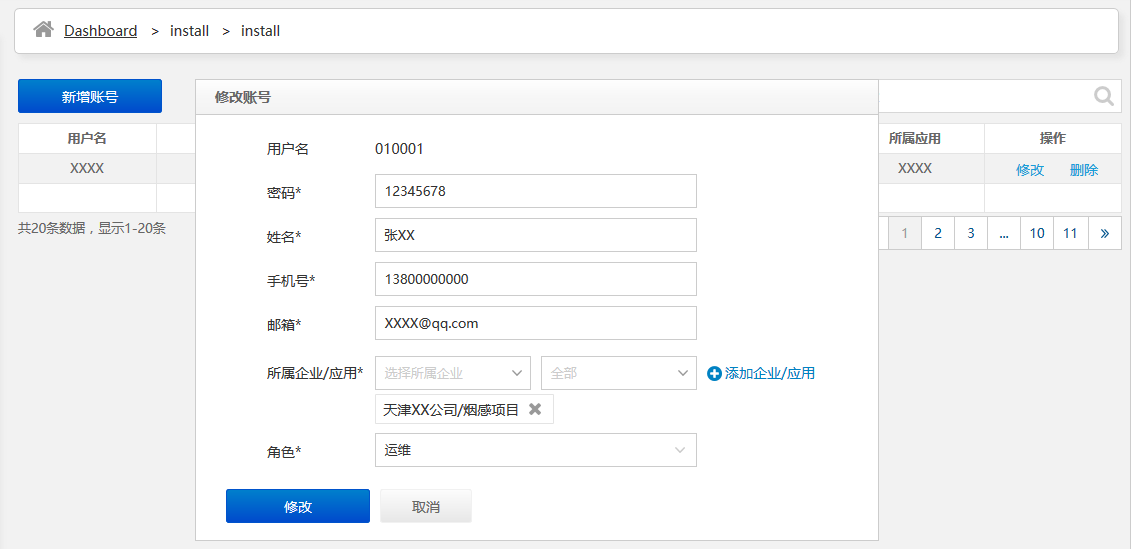
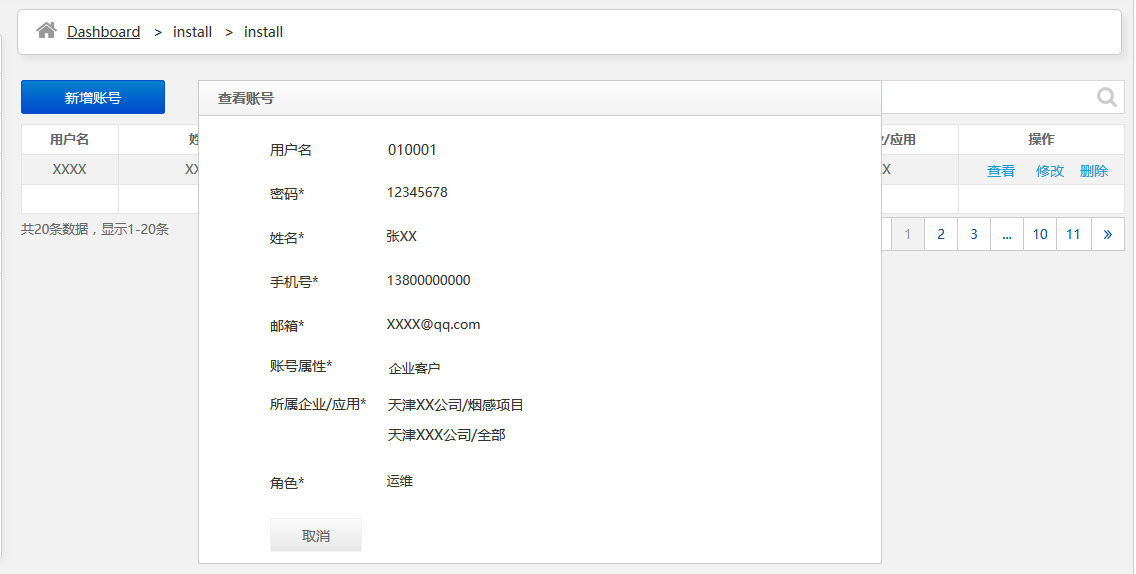
test

diff --git a/index.md b/index.md
@@ -36,7 +36,7 @@
 |元素名称|类型|跳转关系|校验规则|报错提示|元素样式和说明|
 |-------|----|-------|-------|--------|-------------|
 |创建企业|按钮|弹出层显示如上图|||点击按钮弹出层显示“创建企业”弹出层|
-|企业名称|单行输入框||1.必填项，50字符；2.中英文数字和()、-。||1.填写企业客户的企业名称；2.失去焦点时为空，提示“不能为空”；3.失去焦点时存在非法字符，提示“只能填写中英文、数字和()、-”；4.超过50字符不可输入。|
+|企业名称|单行输入框||1.必填项，50字符；2.中英文数字和()、-。||1.填写企业客户的企业名称；2.失去焦点时和提交时为空，提示“不能为空”；3.失去焦点时和提交时存在非法字符，提示“只能填写中英文、数字和()、-”；4.超过50字符不可输入。|
 |企业地址|单行输入框||1.必填项，100字符；2.中英文数字和符号||1.填写企业客户的企业地址；2.为空时，提示“不能为空”；3.超过100字符不可输入。|
 |提交并创建应用|按钮|关闭“创建企业”页面并切换至“应用”标签同时打开“创建应用”弹出层||详见企业名称和企业地址|1.任一字段报错均无法提交；2.提交企业信息并创建该企业的应用信息。|
 |提交|按钮|关闭“创建企业”弹出层，返回企业列表||详见企业名称和企业地址|1.任一字段报错均无法提交；2.提交企业信息，并在企业列表中增加新的企业名称条目。|
@@ -82,12 +82,12 @@
 |元素名称|类型|跳转关系|校验规则|报错提示|元素样式和说明|
 |-------|----|-------|-------|--------|-------------|
 |创建应用|按钮|弹出层显示如上图|||点击“创建应用”按钮，显示“创建应用”弹出层|
-|所属企业|检索下拉框||必选项|失去焦点时为空，提示“请选择所属企业”|1.选择应用所属的企业，默认显示“请选择所属企业”，下拉框可模糊检索企业名称；2.如从企业管理列表中点击“应用”从而进入创建应用页面、或为创建企业后点击“提交并创建应用”进入创建应用页面的情况，“所属企业”字段默认显示为企业管理列表对应的企业名称和前一步操作创建的企业名称。|
-|应用名称|单行输入框||1.必填项；2.中英文数字，50字符|失去焦点时为空，提示“请填写应用名称”；失去焦点时有非法字符，提示“请输入中英文以及数字”|填写应用名称|
-|选择地区|检索下拉框||1.必选项；|失去焦点时为空，提示“请选择地区”|1.选项为全国所有省市，按照拼音的顺序排列，第一个选项均为“全部”；2.两个下拉框分别选择对应的省市及其下级市区；3.“省市”选择全部，同时“市区”自动选择“全部”。|
-|应用类型|下拉框||必选项|失去焦点时为空，提示“请选择应用类型”|选项为系统配置完成的，包含烟气传感、消防器材等，具体选项详见表格下方。|
+|所属企业|检索下拉框||必选项|失去焦点时和提交时为空，提示“请选择所属企业”|1.选择应用所属的企业，默认显示“请选择所属企业”，下拉框可模糊检索企业名称；2.如从企业管理列表中点击“应用”从而进入创建应用页面、或为创建企业后点击“提交并创建应用”进入创建应用页面的情况，“所属企业”字段默认显示为企业管理列表对应的企业名称和前一步操作创建的企业名称。|
+|应用名称|单行输入框||1.必填项；2.中英文数字，50字符|失去焦点时和提交时为空，提示“请填写应用名称”；失去焦点时和提交时有非法字符，提示“请输入中英文以及数字”|填写应用名称|
+|选择地区|检索下拉框||1.必选项；|失去焦点时和提交时为空，提示“请选择地区”|1.选项为全国所有省市，按照拼音的顺序排列，第一个选项均为“全部”；2.两个下拉框分别选择对应的省市及其下级市区；3.“省市”选择全部，同时“市区”自动选择“全部”。|
+|应用类型|下拉框||必选项|失去焦点时和提交时为空，提示“请选择应用类型”|选项为系统配置完成的，包含烟气传感、消防器材等，具体选项详见表格下方。|
 |AppEUI|文字显示||||1.可唯一识别终端设备的应用服务供应商（即所有者）；2.CLAA规定AppEUI是64bits唯一识别码（平台显示16位16进制数）网络将根据此标识寻找终端对应的 APP 厂家的服务器，由 1位应用范围,5 位应用地区，以及2位应用类型，8位序列号组成。|
-|设备最大连接数量|单行输入框||必填项，仅数字，5字符|失去焦点时为空，提示“请填写设备最大连接数量”|该应用最多可申请终端设备的数量。|
+|设备最大连接数量|单行输入框||必填项，仅数字，5字符|失去焦点时和提交时为空，提示“请填写设备最大连接数量”|该应用最多可申请终端设备的数量。|
 |提交|按钮|提交成功关闭创建应用弹出层|||1.任一字段报错均无法提交；2.提交成功，对应企业新增一个应用信息。|
 |取消|按钮|关闭创建应用弹出层|||不执行创建应用操作。|
 * 应用类型选项：
@@ -184,7 +184,7 @@
 |-------|----|-------|-------|--------|-------------|
 |添加一级菜单|按钮|显示“添加一级菜单”弹出层|||点击按钮添加一级菜单信息|
 |序号|||||1.序号自动生成，初始状态添加第一个一级菜单，序号为1；顺序添加第二个一级菜单，序号为2；2.序号小的菜单排列显示靠前。|
-|菜单名称|单行输入框||1.必填项；2.中英文，20字符|1.失去焦点时为空，提示“请填写菜单名称”；2.失去焦点时有非法字符，提示“仅能输入中文、英文”|填写菜单名称|
+|菜单名称|单行输入框||1.必填项；2.中英文，20字符|1.失去焦点时和提交时为空，提示“请填写菜单名称”；2.失去焦点时和提交时有非法字符，提示“仅能输入中文、英文”|填写菜单名称|
 |菜单URL|单行输入框||1.非必填项；2.链接格式：英文、数字、符号，500字符||填写菜单URL表示点击该一级菜单可进入对应的功能页面，如无菜单URL，点击菜单名称无操作。|
 |提交|按钮|成功则关闭添加一级菜单弹出层|||1.任一字段报错均无法提交；2.提交成功，表示添加菜单成功|
 |取消|按钮|关闭添加一级菜单弹出层|||取消操作，不执行添加操作|
@@ -200,7 +200,7 @@
 |一级菜单所在行的“+”|按钮|显示“添加子菜单”弹出层|||点击按钮，用于添加该一级菜单所属二级菜单。|
 |序号|||||自动显示序号，二级菜单序号中第一位继承上级一级菜单的序号，第二位顺序排列1、2、3……11……|
 |所属一级目录|||||显示创建的该二级菜单的上级一级菜单名称。|
-|子菜单名称|单行输入框||必填项，中英文，20字符|1.失去焦点时为空，提示“请填写菜单名称”；2.失去焦点时有非法字符，提示“仅能输入中文、英文”|填写菜单名称|
+|子菜单名称|单行输入框||必填项，中英文，20字符|1.失去焦点时和提交时为空，提示“请填写菜单名称”；2.失去焦点时和提交时有非法字符，提示“仅能输入中文、英文”|填写菜单名称|
 |菜单URL|单行输入框||1.非必填项；2.链接格式：英文、数字、符号，500字符||填写菜单URL表示点击该二级菜单可进入对应的功能页面，如无菜单URL，点击菜单名称无操作。|
 |提交|按钮|成功则关闭添加子菜单弹出层|||1.任一字段报错均无法提交；2.提交成功，表示添加菜单成功|
 |取消|按钮|关闭添加子菜单弹出层|||取消操作，不执行添加操作|
@@ -216,7 +216,7 @@
 |序号|||||自动显示序号，二级菜单序号中前两位继承上级二级菜单的序号，第三位顺序排列1、2、3……10……|
 |所属一级目录|||||显示创建的该三级菜单的上级一级菜单名称。|
 |所属二级目录|||||显示创建的该三级菜单的上级二级菜单名称。|
-|子菜单名称|单行输入框||必填项，中英文，20字符|1.失去焦点时为空，提示“请填写菜单名称”；2.失去焦点时有非法字符，提示“仅能输入中文、英文”|填写菜单名称|
+|子菜单名称|单行输入框||必填项，中英文，20字符|1.失去焦点时和提交时为空，提示“请填写菜单名称”；2.失去焦点时和提交时有非法字符，提示“仅能输入中文、英文”|填写菜单名称|
 |菜单URL|单行输入框||1.必填项；2.链接格式：英文、数字、符号，500字符||填写菜单URL表示点击该三级菜单可进入对应的功能页面。|
 |提交|按钮|成功则关闭添加子菜单弹出层|||1.任一字段报错均无法提交；2.提交成功，表示添加菜单成功|
 |取消|按钮|关闭添加子菜单弹出层|||取消操作，不执行添加操作|
@@ -283,7 +283,7 @@
 
 |元素名称|类型|跳转关系|校验规则|报错提示|元素样式和说明|
 |-------|----|-------|-------|--------|-------------|
-|角色名称|单行输入框||必填项、中英文、20字符|1.失去焦点时为空，提示“不能为空”；2.失去焦点时有非法字符，提示“仅能输入中文、英文”；3.角色名全网唯一，角色名称单行输入框失去焦点时提示“已存在该角色名称”|填写角色名称|
+|角色名称|单行输入框||必填项、中英文、20字符|1.失去焦点时和提交时为空，提示“不能为空”；2.失去焦点时和提交时有非法字符，提示“仅能输入中文、英文”；3.角色名全网唯一，角色名称单行输入框失去焦点时和提交时提示“已存在该角色名称”|填写角色名称|
 |树形结构|复选框||至少选择一项|提交均为空时，提示“至少选择一个菜单权限”|1.树形结构显示内容为<菜单管理>功能中添加菜单架构；2.复选框选中表示该角色可以查看并打开该菜单功能，选中子级菜单同时其上级菜单也为选中状态，如选中上级菜单，同时其所有下级子菜单为全部选中状态|
 |查看权限|开关按钮||||1.表示可查看该菜单中的所有数据的权限，不能做任何操作；2.如选中某菜单，查看权限必为“是”，不能修改。|
 |编辑权限|开关按钮||||1.表示在该菜单中可进行新增、编辑、修改等操作；2.可点击开关，进行开启与关闭。|
@@ -332,15 +332,22 @@
 |元素名称|类型|跳转关系|校验规则|报错提示|元素样式和说明|
 |-------|----|-------|-------|--------|-------------|
 |新增账号|按钮|弹出层显示新增账号页面|||点击按钮，弹出层填写新增按钮页面|
-|用户名|单行输入框||必填项，英文、数字，10字符，全网唯一性|1.失去焦点时为空，提示“用户名不能为空”；2.单行输入框失去焦点时验证是否唯一性，提示“已存在该用户名”；3.失去焦点时有非法字符，提示“仅能输入英文、数字”。|填写登录平台的用户名|
-|密码|单行输入框||必填项，英文、数字，6-16位字符|失去焦点时为空，提示“不能为空”|填写登录平台的密码，显示为密文**|
-|姓名|单行输入框||必填项，中英文，20字符|1.失去焦点时为空，提示“不能为空”；2.失去焦点有非法字符，提示“仅能输入中文、英文”|填写使用该账号的真实用户姓名|
-|手机号|单行输入框||必填项，11位手机格式|1.失去焦点时为空，提示“不能为空”；2.失去焦点时为非手机号格式，提示“请输入正确的手机号码”|填写用户真实手机号码，故障事件的通知电话|
-|邮箱|单行输入框||必填项，50字符，邮箱格式|1.失去焦点时为空，提示“邮箱不能为空”；2.失去焦点时为非邮箱格式，提示“请输入正确的邮箱”|填写用户真实邮箱，故障事件的通知邮箱|
-|所属企业、所属应用|检索下拉框||必选项|失去焦点时均为空，提示“请选择企业、应用”|1.检索下拉框选项均按字母排序，第一个选项均为“全部”，视为该账号可管理所有企业及所有应用；2.如所属企业选择全部，则所属应用自动变为“全部”；3.选择企业、应用后需点击下拉框后方的“添加企业/应用”，则所选择企业、应用信息显示在下拉框下方方为选择企业、应用成功，例如：天津XX公司/烟感应用、天津XX公司/全部、全部/全部，可添加多个，无上限；4.点击后方的“×”删除该企业/应用。|
-|角色|下拉框||必选项|失去焦点时均为空，提示“请选择角色”|为账号赋予角色（包含菜单和操作权限）。|
+|用户名|单行输入框||必填项，英文、数字，10字符，全网唯一性|1.失去焦点时和提交时为空，提示“用户名不能为空”；2.单行输入框失去焦点时和提交时验证是否唯一性，提示“已存在该用户名”；3.失去焦点时和提交时有非法字符，提示“仅能输入英文、数字”。|填写登录平台的用户名|
+|密码|单行输入框||必填项，英文、数字，6-16位字符|失去焦点时和提交时为空，提示“不能为空”|填写登录平台的密码，显示为密文**|
+|姓名|单行输入框||必填项，中英文，20字符|1.失去焦点时和提交时为空，提示“不能为空”；2.失去焦点有非法字符，提示“仅能输入中文、英文”|填写使用该账号的真实用户姓名|
+|手机号|单行输入框||必填项，11位手机格式|1.失去焦点时和提交时为空，提示“不能为空”；2.失去焦点时和提交时为非手机号格式，提示“请输入正确的手机号码”|填写用户真实手机号码，故障事件的通知电话|
+|邮箱|单行输入框||必填项，50字符，邮箱格式|1.失去焦点时和提交时为空，提示“邮箱不能为空”；2.失去焦点时和提交时为非邮箱格式，提示“请输入正确的邮箱”|填写用户真实邮箱，故障事件的通知邮箱|
+|账号属性|单选框组||必选项|提交时为空，提示“请选择账号属性”|1.选项包含运营商、企业客户、设备厂商；2.选择企业客户，需填写所属企业应用；选择设备厂商，需选择厂商类型（基站 or 终端）和厂商名称。|
+|所属企业、所属应用|检索下拉框||必选项|失去焦点时和提交时均为空，提示“请选择企业、应用”|1.检索下拉框选项均按字母排序，第一个选项均为“全部”，视为该账号可管理所有企业及所有应用；2.如所属企业选择全部，则所属应用自动变为“全部”；3.选择企业、应用后需点击下拉框后方的“添加企业/应用”，则所选择企业、应用信息显示在下拉框下方方为选择企业、应用成功，例如：天津XX公司/烟感应用、天津XX公司/全部、全部/全部，可添加多个，无上限；4.点击后方的“×”删除该企业/应用。|
+|厂商类型、厂商名称|检索下拉框||必选项|失去焦点时和提交时均为空，提示“请选择企业、应用”|厂商类型选择终端厂商或基站厂商；厂商名称为公共信息中设备厂商的名称。|
+|角色|下拉框||必选项|失去焦点时和提交时均为空，提示“请选择角色”|为账号赋予角色（包含菜单和操作权限）。|
 |提交|按钮|提交成功关闭弹出层|||1.任一字段报错均无法提交；2.提交创建新的账号，账号列表中增加新的记录。|
 |取消|按钮|关闭弹出层|||不执行添加账号操作。|
+
+* 账号属性：详细的权责明细会在各功能模块的文档中详细介绍。
+　1、运营商：可分配子账号，处理故障事件，审核固件升级等，负责全网企业应用；
+　2、企业客户：需对账号进行企业应用的职责划分，在连接设备时需根据企业和应用进行申请，保护企业信息的安全性；
+　3、设备厂商：设备厂商测试设备，调试设备等工作，仅能管理自己连接的设备。
 
 #### 5.3.2 修改账号
 * 除用户名外均可修改，字段描述、规则同<5.3.1新增账号>；
@@ -361,8 +368,14 @@
 ![删除账号]()
 
 #### 5.3.3 账号管理列表
+* 表格字段包含：用户名、姓名、电话、邮箱、角色、账号属性；
+* 右上角检索框可检索用户名、姓名、电话、角色和账号属性，模糊检索。
 
 ![账号管理列表]()
+
+
+
+
 
 
 
